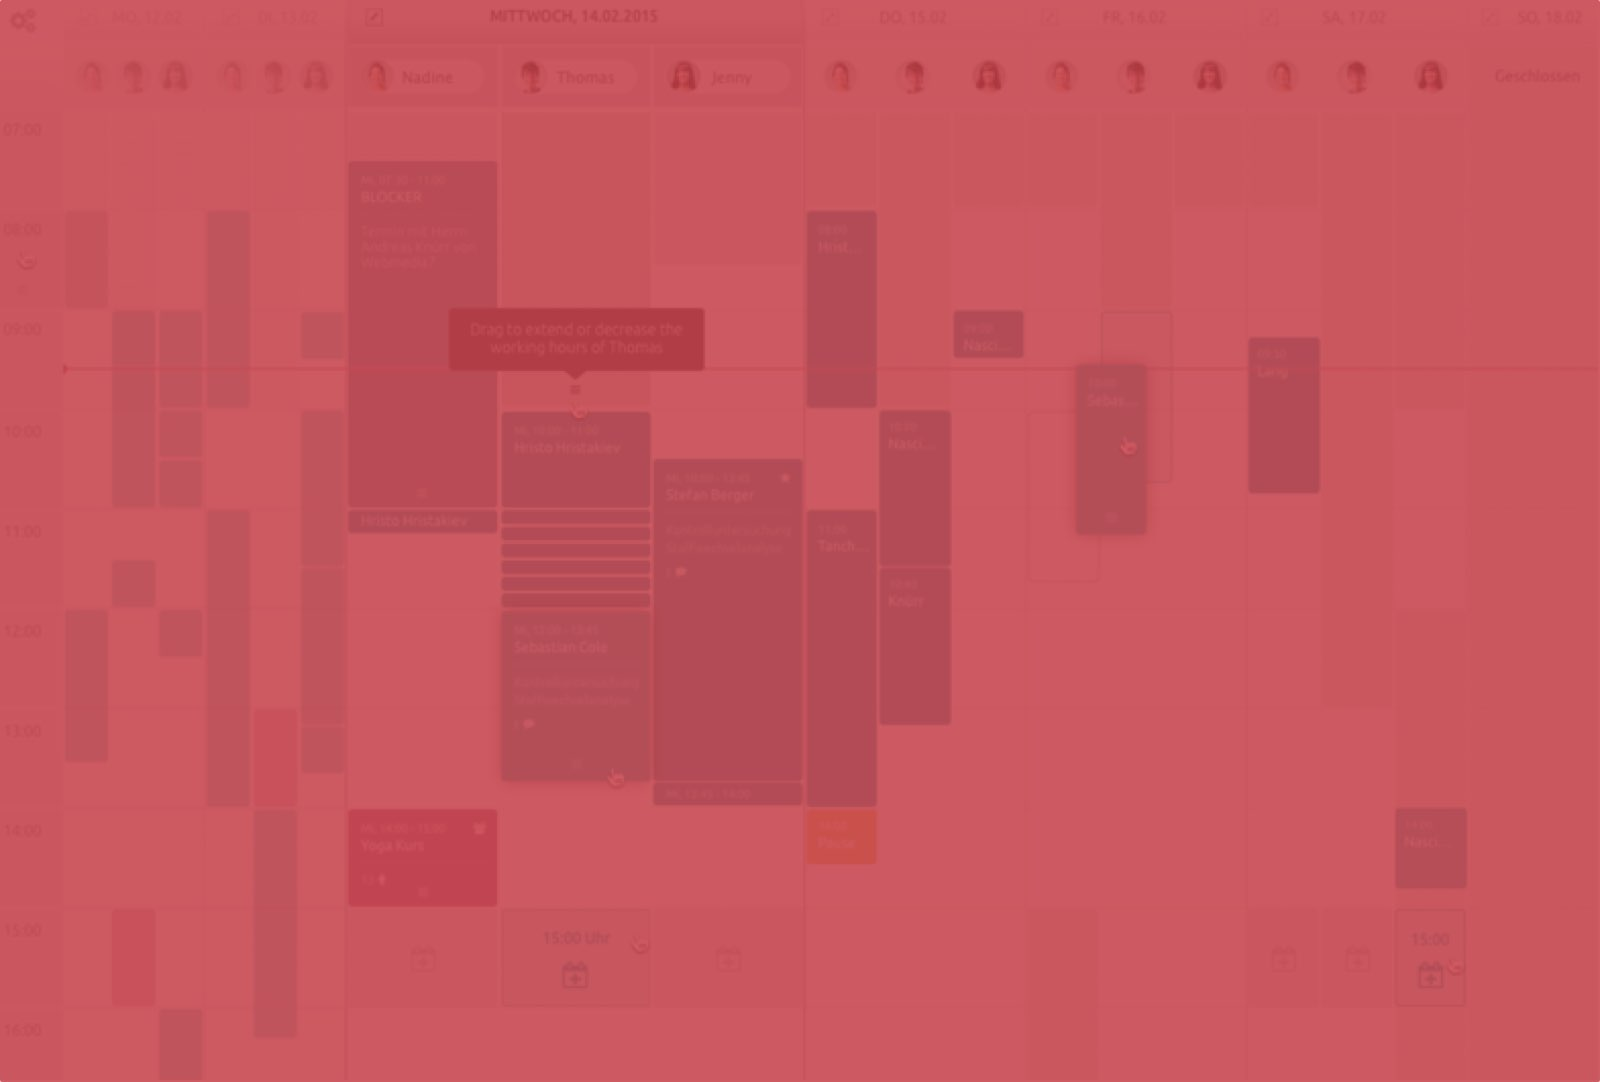
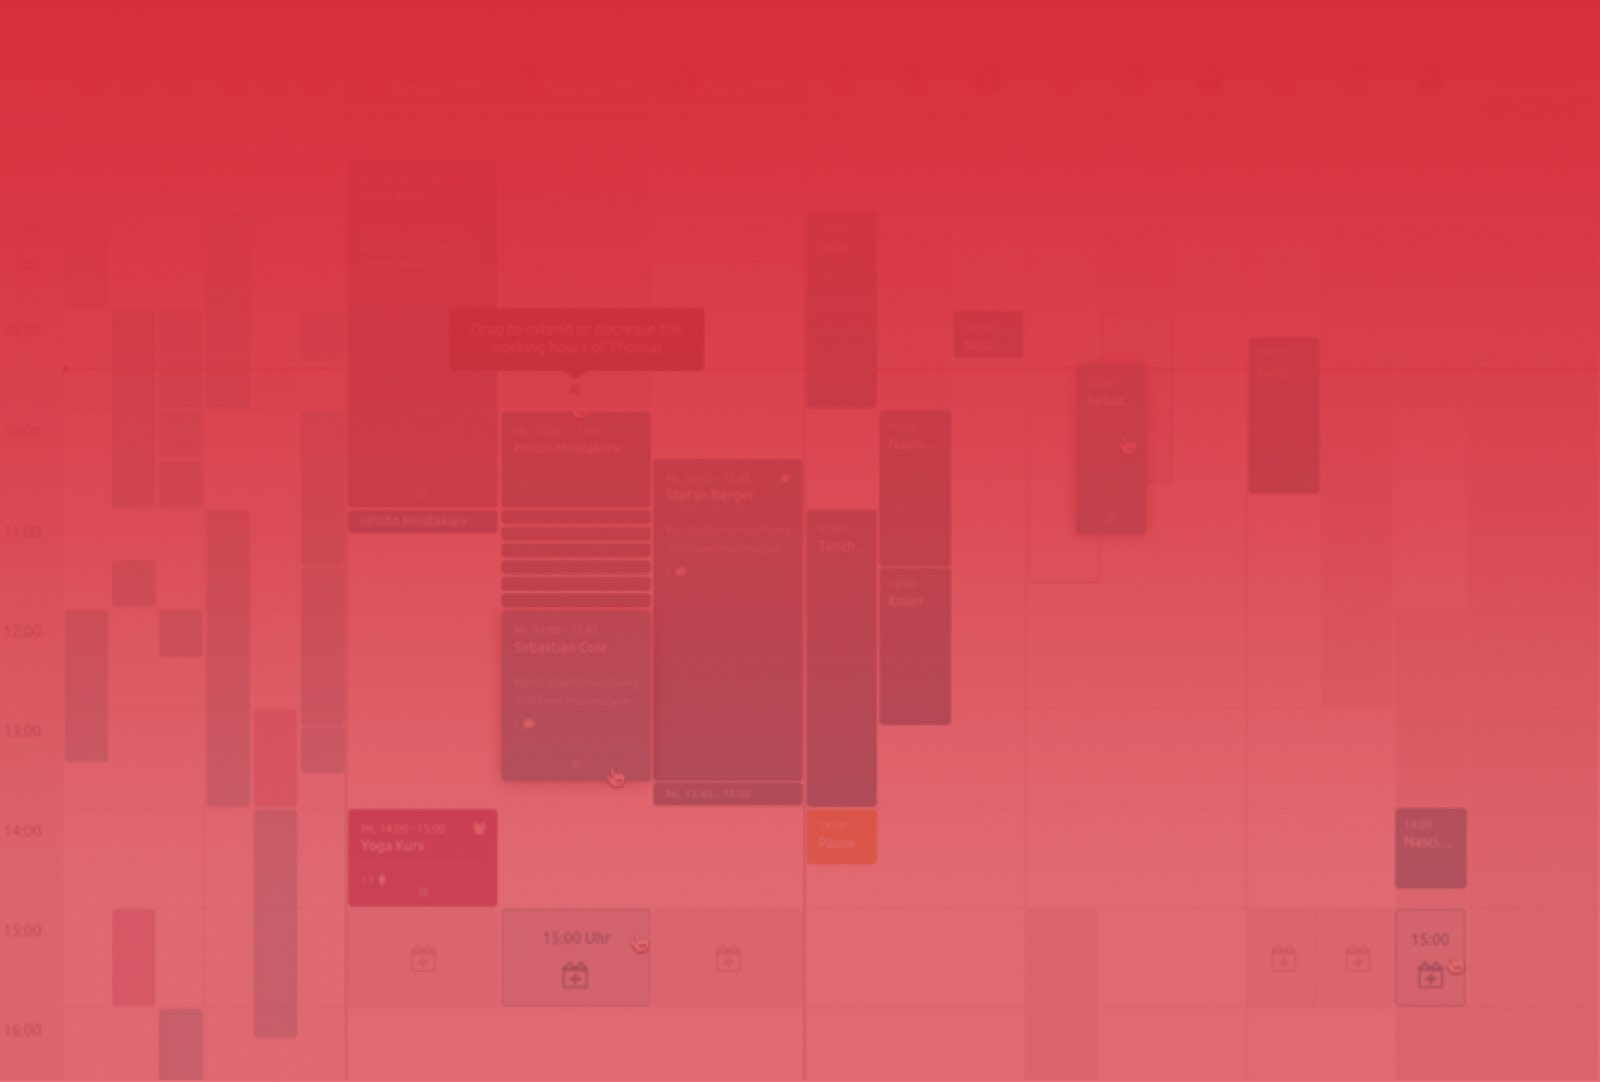
fix timify colors and background

diff --git a/css/pages/cases/timify.scss b/css/pages/cases/timify.scss
@@ -1,6 +1,6 @@
 $timify-primary-menu-background-color: transparent;
-$timify-highlight-color: #ca3b44;
-$timify-secondary-background-color: #ca3b44;
+$timify-highlight-color: #d6303b;
+$timify-secondary-background-color: #d6303b;
 $timify-secondary-foreground-color: #fff;
 
 body.timify-case {

diff --git a/work/cases/_posts/2017-1-2-timify.md b/work/cases/_posts/2017-1-2-timify.md
@@ -3,7 +3,7 @@ layout: case
 section: Cases
 key: timify
 title: "Timify"
-subtitle: "online **appointment booking management**"
+subtitle: "**online appointment booking management**"
 excerpt: "simplabs built the **first version of Timify's core product, providing them with a solid foundation** for the future. The newly built in-house engineering team was able to pick that up and continue development afterwards."
 permalink: /work/cases/timify.html
 redirect_from: /cases/timify.html
